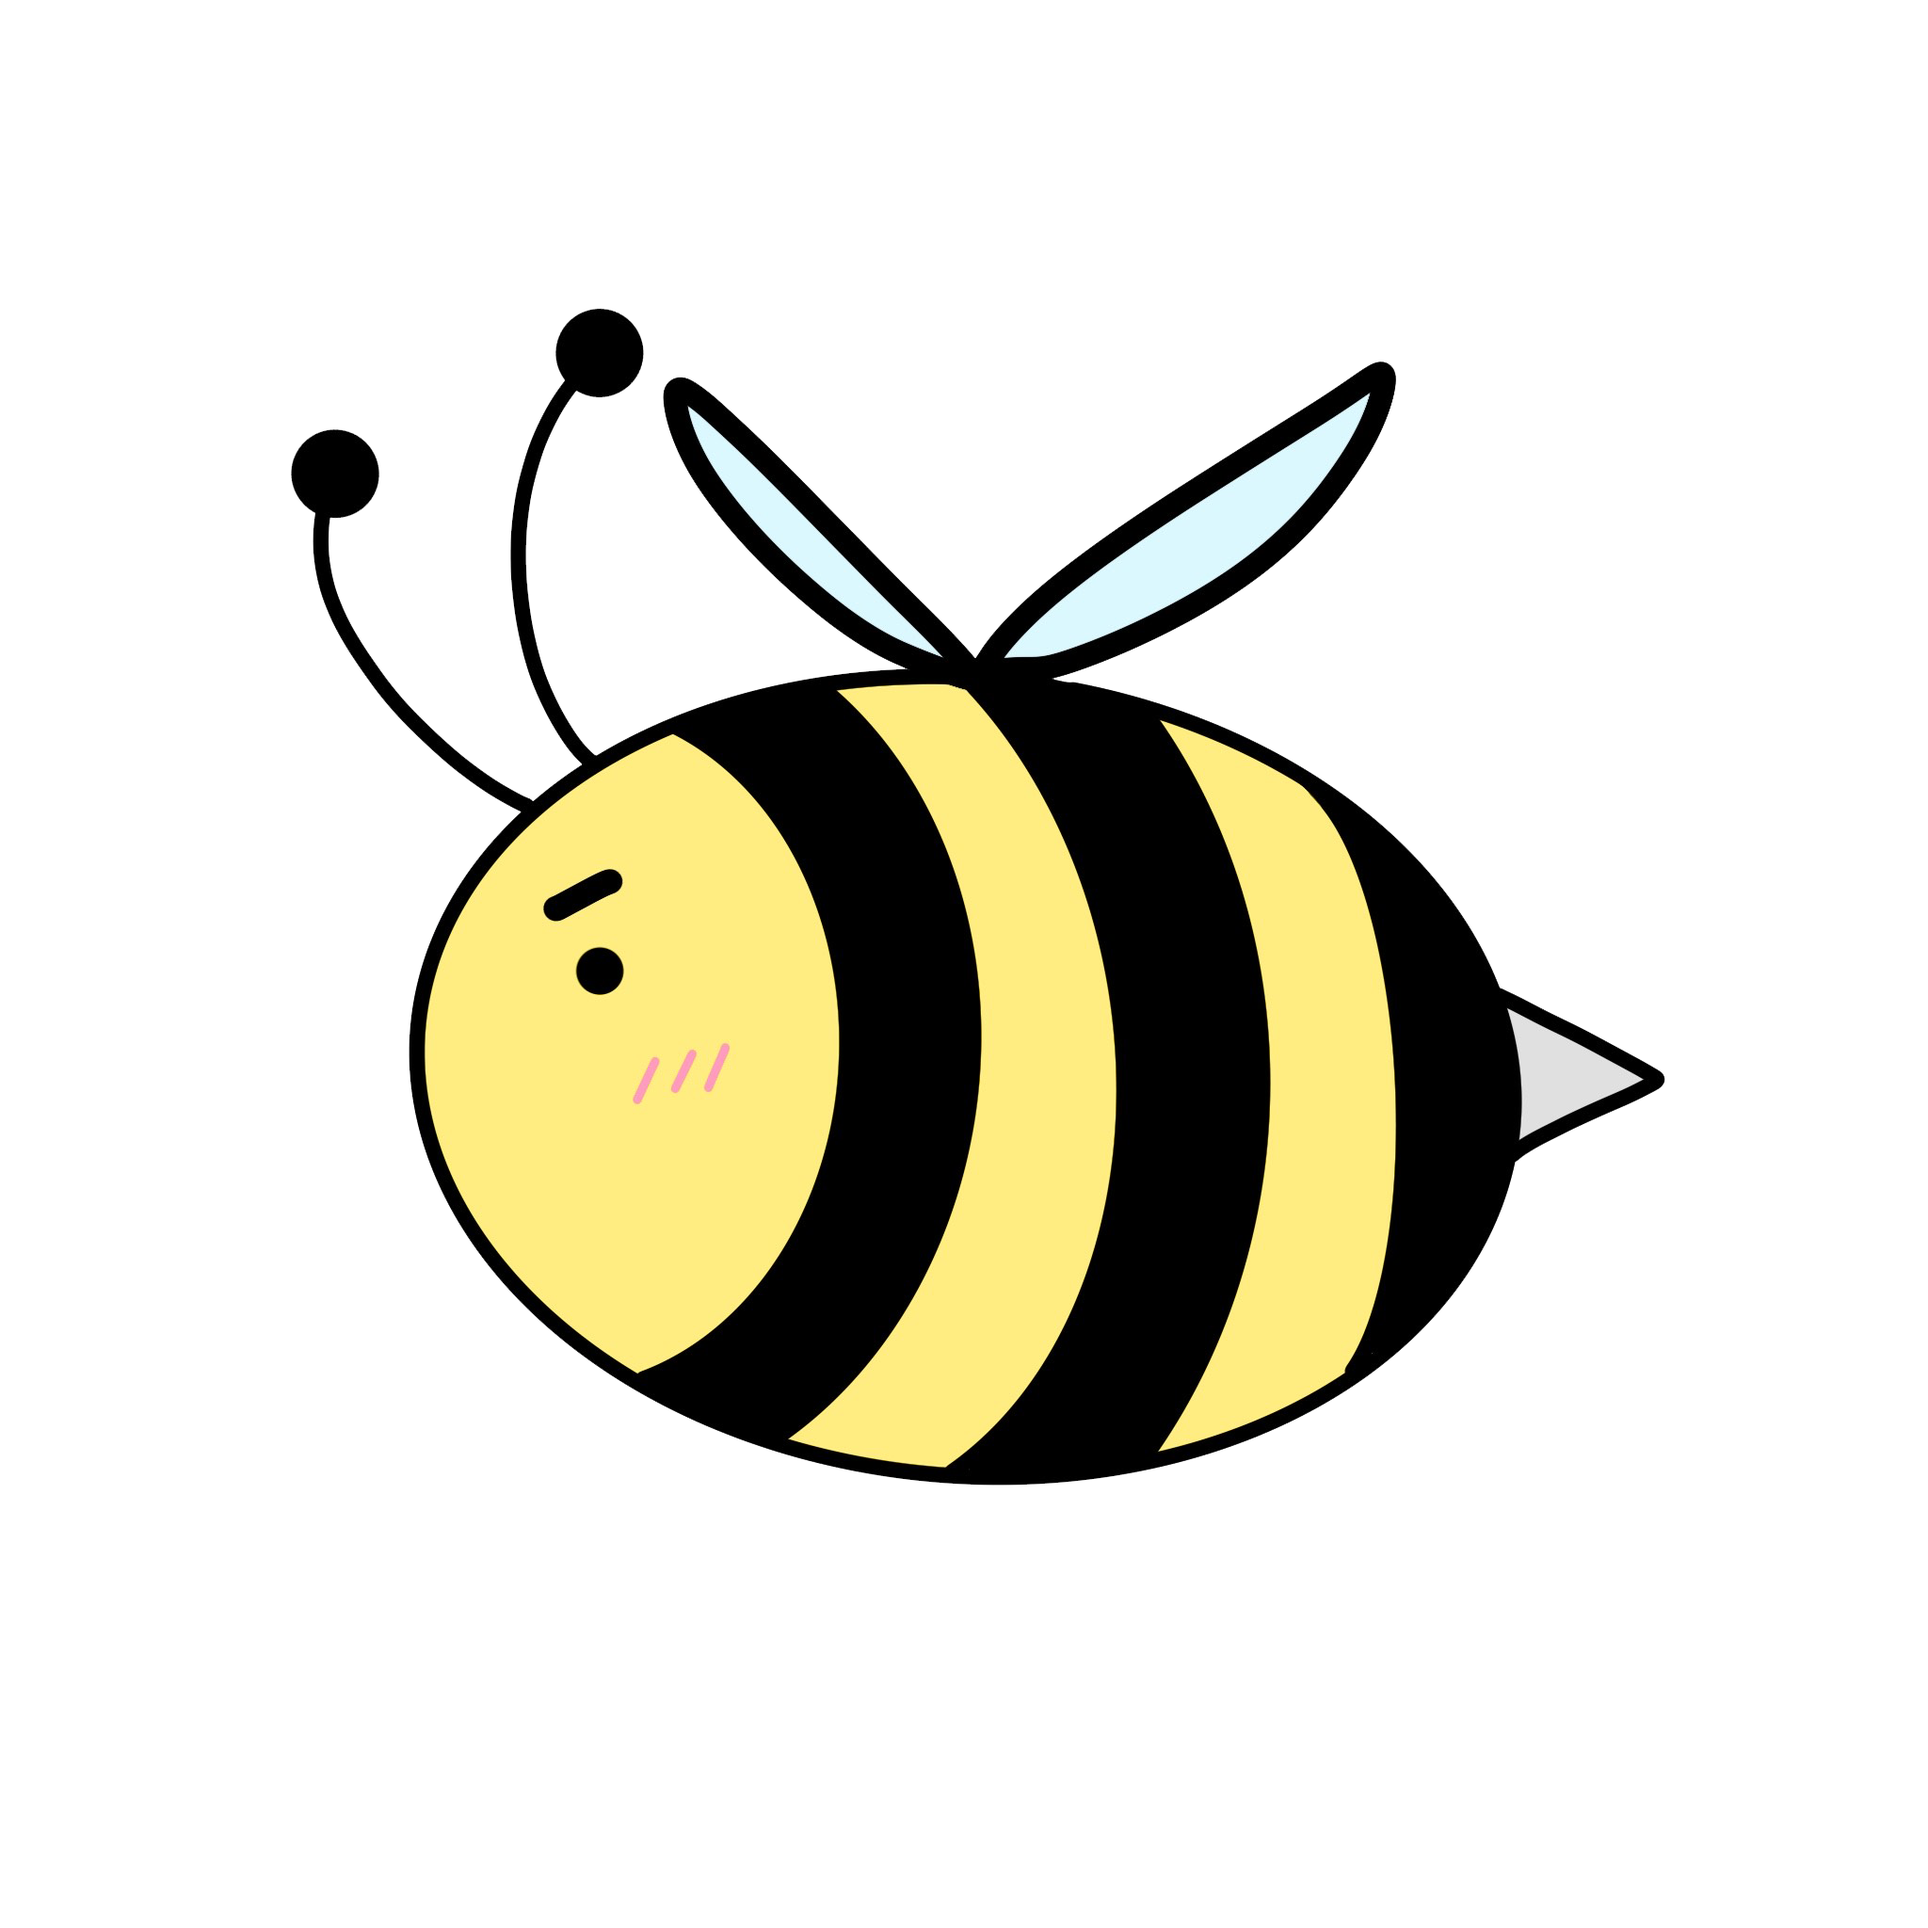
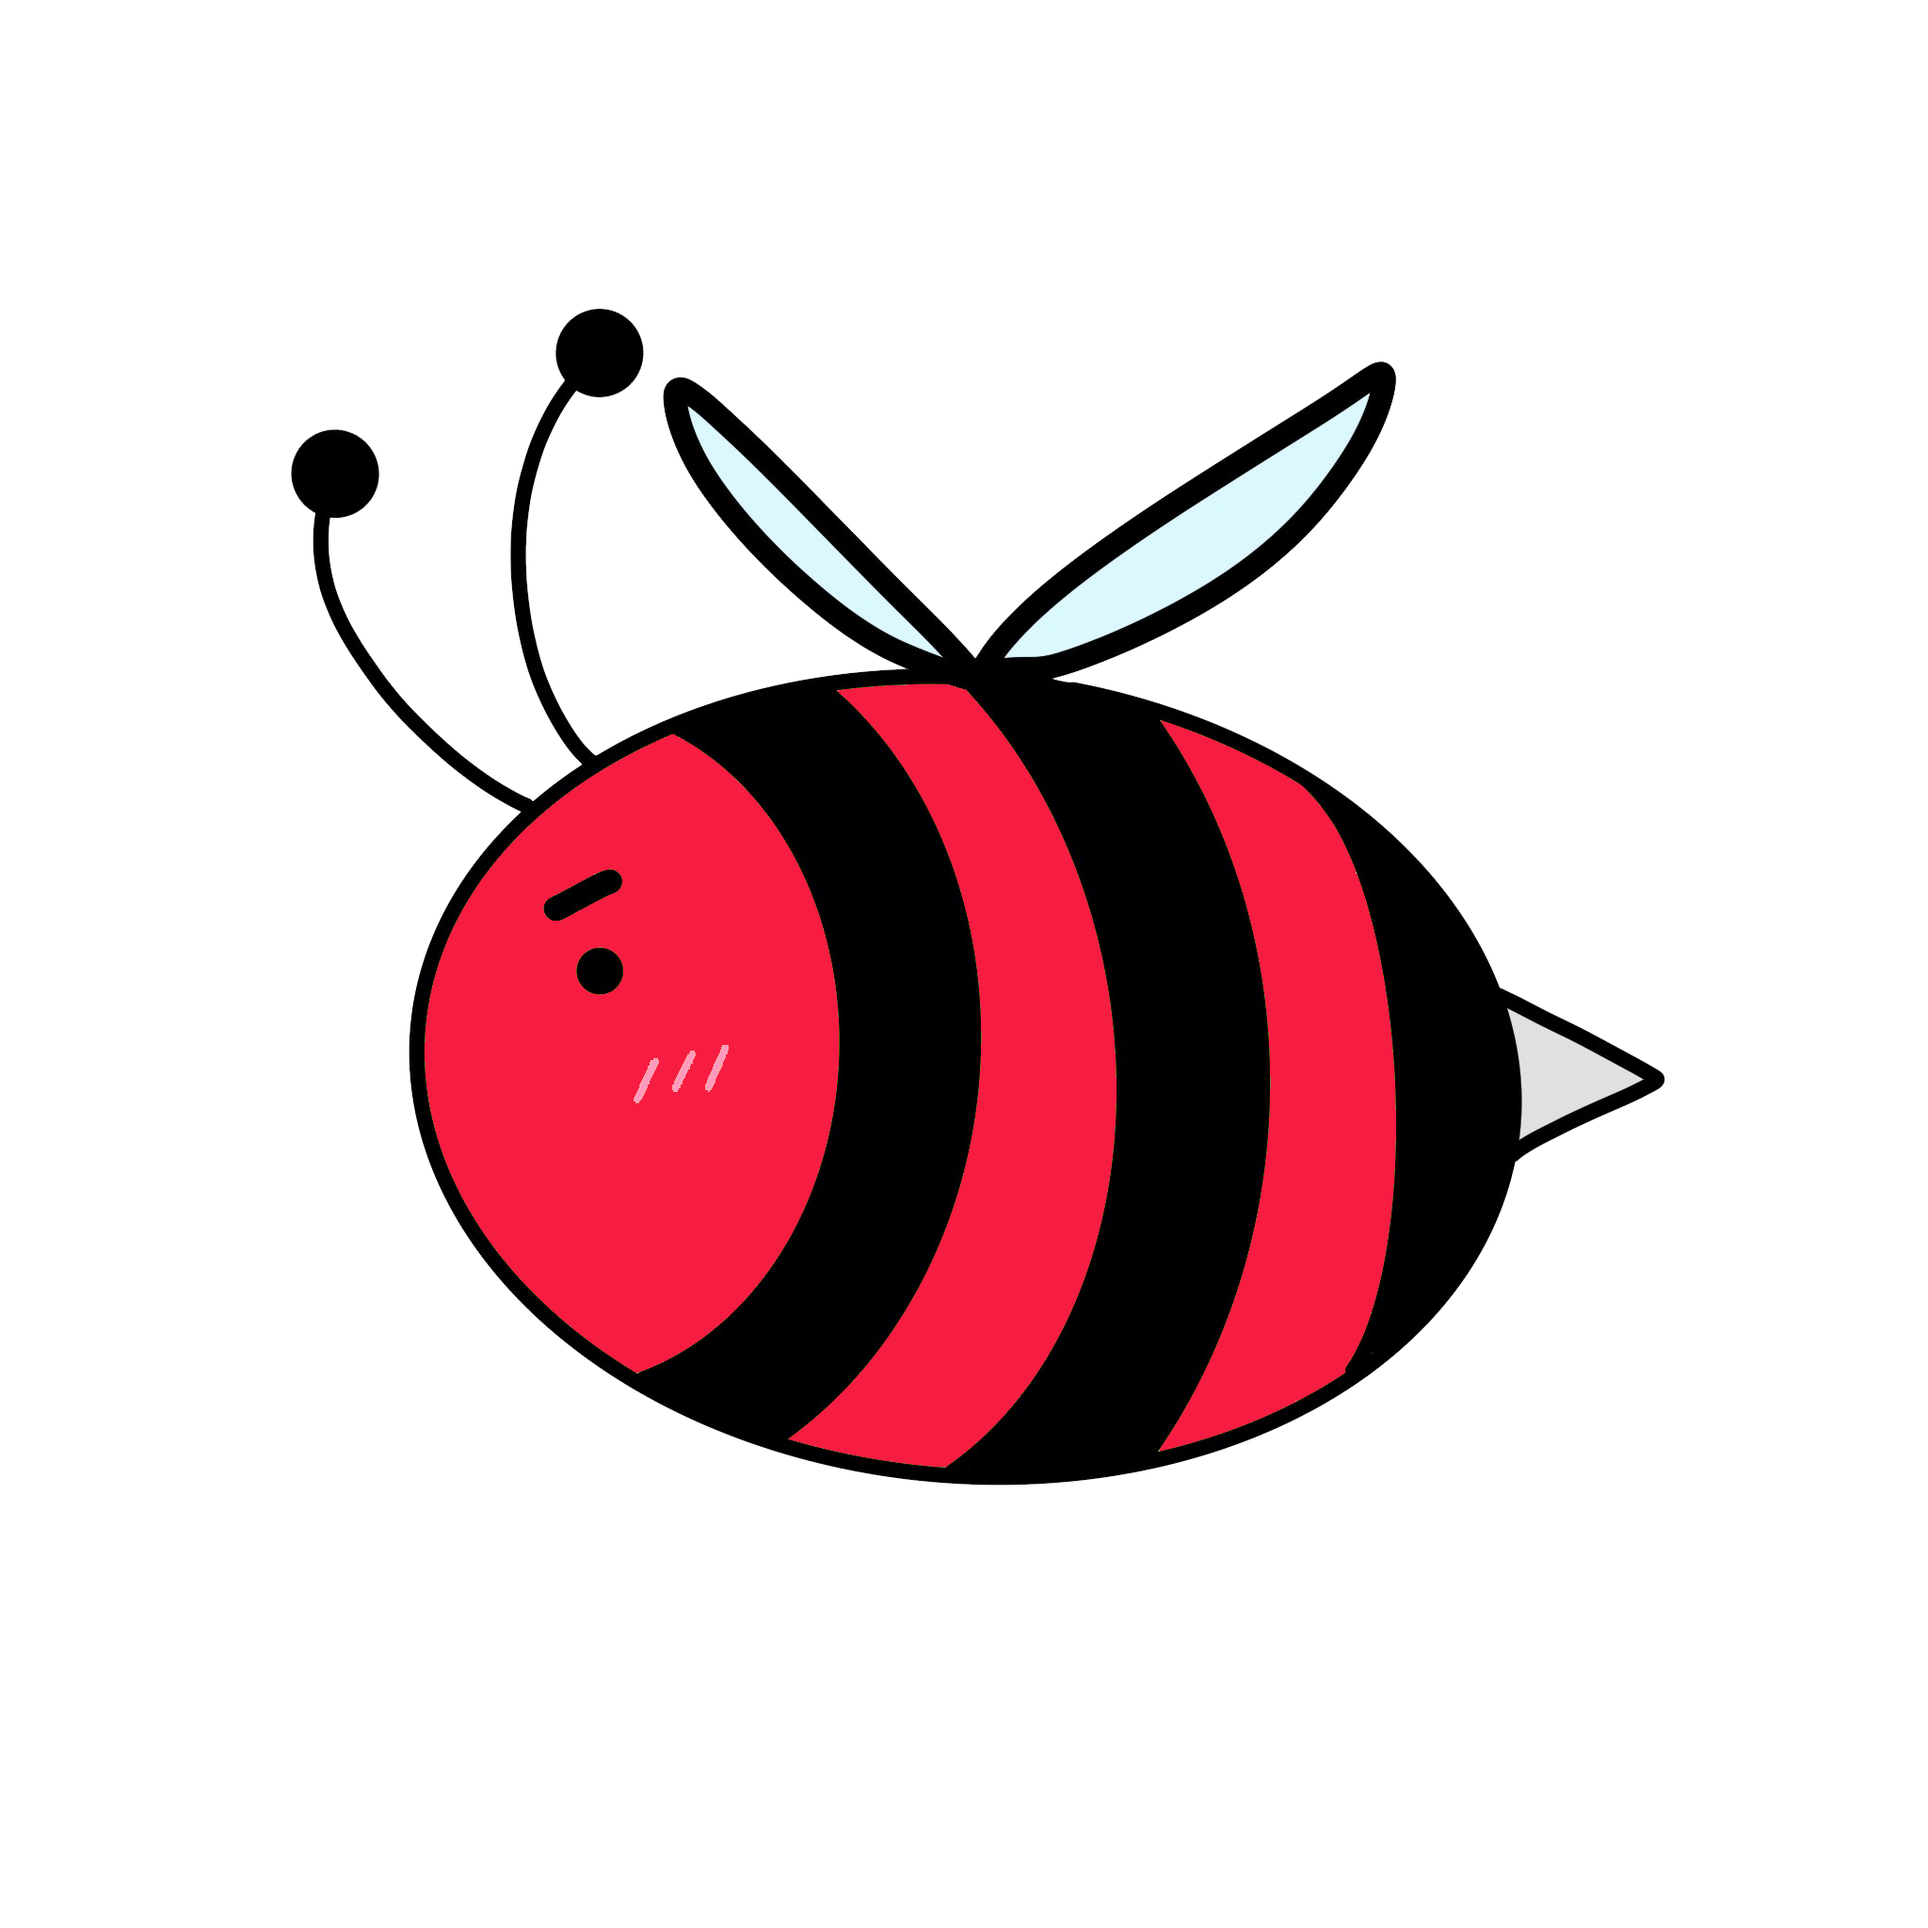
Changed SmartBee to be red

Changed region(s): [[0.2188, 0.375, 0.4375, 0.7188], [0.4062, 0.3438, 0.5938, 0.7812], [0.5938, 0.375, 0.75, 0.75]]

diff --git a/src/code/GardenController.java b/src/code/GardenController.java
@@ -51,10 +51,10 @@ public class GardenController {
 
         // init infoPanel data
         infoPanel.getItems().add("We have 2 types of Bees: ");
-        infoPanel.getItems().add("-Curly Antenna: moves to flowers");
-        infoPanel.getItems().add("-Circle Antenna: moves inline");
+        infoPanel.getItems().add("-Red: moves to flowers");
+        infoPanel.getItems().add("-Yellow Antenna: moves inline");
         infoPanel.getItems().add("We have 2 types of Flowers: ");
-        infoPanel.getItems().add("-White: replenishes bee energy");
+        infoPanel.getItems().add("-Pink: replenishes bee energy");
         infoPanel.getItems().add("-Purple: drains bee energy");
 
         initFlowers(10);
